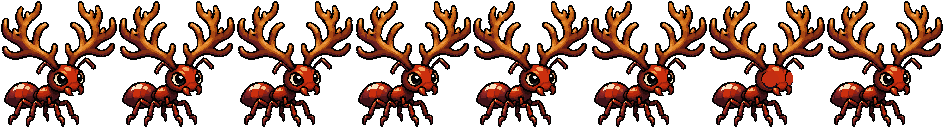
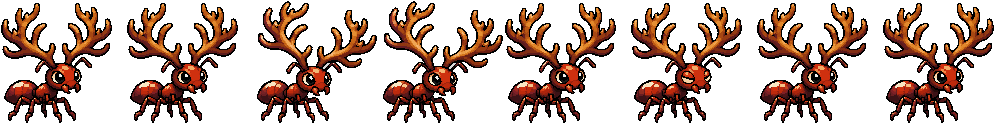
P5-72: use the drawn poses for the forest idles
Replaces the cut-and-shift frames. Fixes Dewdle's outline and Murmurk's eye.

diff --git a/plugin/content/CREDITS.md b/plugin/content/CREDITS.md
@@ -61,13 +61,13 @@ noted (decision 0011). Add a row whenever you add or change an asset.
 | `modsters/flexton/desktop.png` | @victor-aguilars (drawn with Claude Code) | CC BY 4.0 | Flexton's desktop sheet, from @victor-aguilars' reference (P5-70, decision 0045); it pumps its arms and blinks |
 | `modsters/inkspector/desktop.png` | @victor-aguilars (drawn with Claude Code) | CC BY 4.0 | Inkspector redrawn as a living ink blot in a kelp trench coat, from @victor-aguilars' reference (P5-70, decision 0045); it bobs and blinks |
 | `modsters/tidecrown/desktop.png` | @victor-aguilars (drawn with Claude Code) | CC BY 4.0 | Tidecrown, a moonlit tide spirit, from @victor-aguilars' reference (P5-70, decision 0045); its wingtips flap, the moon in its chest glows with an aura, sparkles glint on its crown and wingtips, and it floats and blinks |
-| `modsters/dewdle/desktop.png` | @victor-aguilars (drawn with Claude Code) | CC BY 4.0 | Dewdle, a dewdrop under a leaf hat; a body bob and a blink, from @victor-aguilars' reference (P5-72, decision 0045) |
-| `modsters/antlet/desktop.png` | @victor-aguilars (drawn with Claude Code) | CC BY 4.0 | Antlet, an ant with huge antlers; the antlers sway and it blinks, from @victor-aguilars' reference (P5-72, decision 0045) |
-| `modsters/fireflit/desktop.png` | @victor-aguilars (drawn with Claude Code) | CC BY 4.0 | Fireflit, a firefly with a spark-filled bulb; the bulb brightens and it blinks, from @victor-aguilars' reference (P5-72, decision 0045) |
-| `modsters/hushwren/desktop.png` | @victor-aguilars (drawn with Claude Code) | CC BY 4.0 | Hushwren, a ghostly wren; the tail wisps drift and it blinks, from @victor-aguilars' reference (P5-72, decision 0045) |
-| `modsters/dartling/desktop.png` | @victor-aguilars (drawn with Claude Code) | CC BY 4.0 | Dartling, a tiny dragon with dragonfly wings; it hovers and blinks, from @victor-aguilars' reference (P5-72, decision 0045) |
-| `modsters/otterfall/desktop.png` | @victor-aguilars (drawn with Claude Code) | CC BY 4.0 | Otterfall, an otter whose tail is running water; the tail flows and it blinks, from @victor-aguilars' reference (P5-72, decision 0045) |
-| `modsters/murmurk/desktop.png` | @victor-aguilars (drawn with Claude Code) | CC BY 4.0 | Murmurk, a crow with smoke at its wing tips; it breathes, whispers and blinks, from @victor-aguilars' reference (P5-72, decision 0045) |
+| `modsters/dewdle/desktop.png` | @victor-aguilars (drawn with Claude Code) | CC BY 4.0 | Dewdle, a dewdrop under a leaf hat; it blinks, from the drawn poses in @victor-aguilars' reference (P5-72, decision 0045) |
+| `modsters/antlet/desktop.png` | @victor-aguilars (drawn with Claude Code) | CC BY 4.0 | Antlet, an ant with huge antlers; the antlers shift and it blinks, from the drawn poses in @victor-aguilars' reference (P5-72, decision 0045) |
+| `modsters/fireflit/desktop.png` | @victor-aguilars (drawn with Claude Code) | CC BY 4.0 | Fireflit, a firefly with a spark-filled bulb; the bulb fills with sparks, from the drawn poses in @victor-aguilars' reference (P5-72, decision 0045) |
+| `modsters/hushwren/desktop.png` | @victor-aguilars (drawn with Claude Code) | CC BY 4.0 | Hushwren, a ghostly wren; the tail wisps change shape, from the drawn poses in @victor-aguilars' reference (P5-72, decision 0045) |
+| `modsters/dartling/desktop.png` | @victor-aguilars (drawn with Claude Code) | CC BY 4.0 | Dartling, a tiny dragon with dragonfly wings; the wings beat, from the drawn poses in @victor-aguilars' reference (P5-72, decision 0045) |
+| `modsters/otterfall/desktop.png` | @victor-aguilars (drawn with Claude Code) | CC BY 4.0 | Otterfall, an otter whose tail is running water; the tail flows, from the drawn poses in @victor-aguilars' reference (P5-72, decision 0045) |
+| `modsters/murmurk/desktop.png` | @victor-aguilars (drawn with Claude Code) | CC BY 4.0 | Murmurk, a crow with smoke at its wing tips; it whispers, with a pupil darkened by hand, from the drawn poses in @victor-aguilars' reference (P5-72, decision 0045) |
 | `biomes/whispering-forest/background.png` | @danielpg95 (drawn with Claude Code) | CC BY 4.0 | Idle scene (decision 0026) |
 | `biomes/whispering-forest/desktop.png` | @danielpg95 (drawn with Claude Code) | CC BY 4.0 | Whispering Forest's desktop background (P5-48, decision 0045), reduced from @danielpg95's reference; the undergrowth sways |
 | `biomes/whispering-forest/particles.png` | @danielpg95 (drawn with Claude Code) | CC BY 4.0 | Whispering Forest's falling leaf on desktop (P5-48, decision 0046): it turns and flips as it falls |

diff --git a/docs/sessions/2026-11-03-victor-aguilars-P5-72.md b/docs/sessions/2026-11-03-victor-aguilars-P5-72.md
@@ -1,7 +1,7 @@
 # Session — 2026-11-03 — @victor-aguilars — P5-72 Grow the Whispering Forest roster to 8/5/3/1
 
 - **Task:** P5-72 — Grow the Whispering Forest roster to 8/5/3/1
-- **Branch:** `p5-72-forest-roster`
+- **Branch:** `p5-72-forest-idles` (after `p5-72-forest-roster`, merged in #240)
 - **Status at end:** in-review
 - **Last commit:** `c86911b`
 
@@ -22,12 +22,13 @@ Give every biome more variety per tier, starting with the forest.
 
 ## Problems and findings
 
-- Blinks are painted by hand, since most references had no usable blink pose.
-- Not yet checked in the Code tab, and idle animations have not been reviewed in motion by @victor-aguilars.
+- The first idles cut parts and shifted them, and @victor-aguilars rejected that look. Every frame now is a drawn pose from the reference, lined up on the rest pose, so Hushwren, Dartling, Otterfall and Murmurk have no blink.
+- Reducing a sheet to 62 colours with median cut smeared Murmurk's eye; fast octree with k-means keeps it clean.
+- Not yet checked in the Code tab.
 
 ## Next steps
 
-1. @victor-aguilars approves the seven idle animations in the PR, then the last item is ticked and the task closes.
+1. @victor-aguilars approves the idle animations in the PR, then the last item is ticked and the task closes.
 2. Start P5-73 to P5-75 with concept lists that avoid ball shapes and vary types.
 
 ## Open questions

diff --git a/docs/WORKBOARD.md b/docs/WORKBOARD.md
@@ -16,7 +16,7 @@ this file lists only tasks someone has claimed.
 | Task | Owner | Status | Branch | Started | Updated | Next step |
 | --- | --- | --- | --- | --- | --- | --- |
 | P5-64 | @victor-aguilars | in-review | p5-64-desktop-collection-cards | 2026-11-01 | 2026-11-01 | Get the P5-64 PR reviewed; @danielpg95 accepts or reworks 0054, then tick the last item and close the task |
-| P5-72 | @victor-aguilars | in-review | p5-72-forest-roster | 2026-11-03 | 2026-11-03 | @victor-aguilars approves the seven idle animations in the PR, then the last item is ticked and the task closes |
+| P5-72 | @victor-aguilars | in-review | p5-72-forest-idles | 2026-11-03 | 2026-11-03 | @victor-aguilars approves the idle animations in the PR, then the last item is ticked and the task closes |
 
 ## Up next
 
